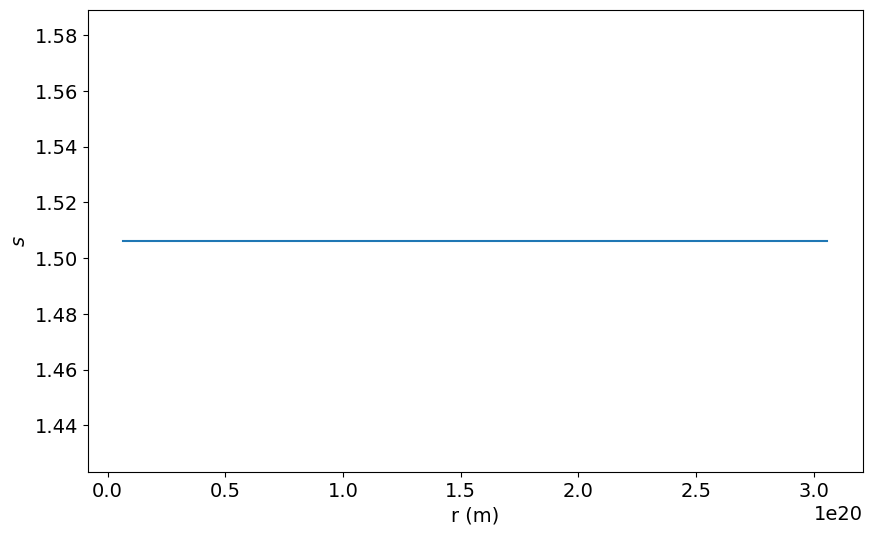
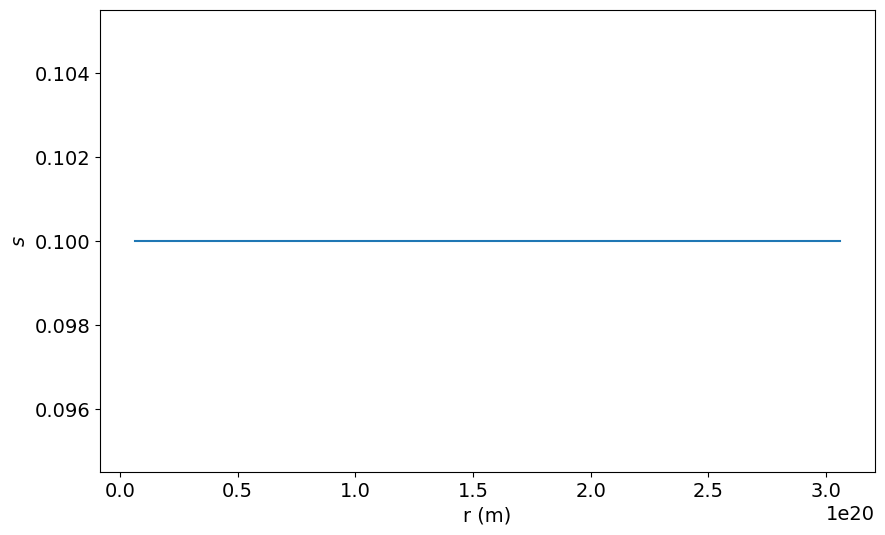
adding mass opt

diff --git a/grid_search_util.py b/grid_search_util.py
@@ -14,7 +14,7 @@ plt.rcParams.update({'font.size': 10})
 
 def plot_grid_results(res_grid, x0_vals, x1_vals, x2_vals, best_loc):
 
-    res_grid[np.where(np.isnan(res_grid))] = np.max(res_grid)
+    #res_grid[np.where(np.isnan(res_grid))] = np.max(res_grid)
     X0, X1, X2 = np.meshgrid(x0_vals, x1_vals, x2_vals)
     fig = plt.figure(figsize=(8, 6))
     plt.rcParams.update({'font.size': 10})
@@ -23,14 +23,14 @@ def plot_grid_results(res_grid, x0_vals, x1_vals, x2_vals, best_loc):
 
     colmap = cm.ScalarMappable(cmap=cm.hsv)
     colmap.set_array(res_grid)
-    img = ax.scatter(X0, X1, X2, c = np.minimum(res_grid/np.min(res_grid), 1.2*np.ones(res_grid.shape)), cmap = plt.cool(), alpha = 0.6)
+    img = ax.scatter(X0, X1, X2, c = np.minimum(res_grid/np.nanmin(res_grid), 1.2*np.ones(res_grid.shape)), cmap = plt.cool(), alpha = 0.3)
     cax = ax.inset_axes([1.15, 0.2, 0.05, 0.6])
     cb = fig.colorbar(img, shrink=0.5, aspect=8, cax = cax)
 
     ax.set_xlabel('x0')
     ax.set_ylabel('x1')
     ax.set_zlabel('x2')
-    ax.view_init(azim=-30, elev=20)
+    ax.view_init(azim=-30, elev=-20)
     fig.savefig("plots/residual_grid")
 
     #import pdb; pdb.set_trace()
@@ -56,7 +56,7 @@ def plot_grid_results(res_grid, x0_vals, x1_vals, x2_vals, best_loc):
     return
 
 def grid_search(grid_ranges, galaxy_dict):
-    num_samples = 17
+    num_samples = 25
     x0_vals = np.linspace(grid_ranges["x0"][0], grid_ranges["x0"][1], num_samples, endpoint = True)
     x1_vals = np.linspace(grid_ranges["x1"][0], grid_ranges["x1"][1], num_samples, endpoint = True)
     x2_vals = np.linspace(grid_ranges["x2"][0], grid_ranges["x2"][1], num_samples, endpoint = True)
@@ -71,24 +71,91 @@ def grid_search(grid_ranges, galaxy_dict):
         for j, x1 in enumerate(list(x1_vals)):
             for k, x2 in enumerate(list(x2_vals)):
                 x = tf.convert_to_tensor(np.asarray([x0, x1, x2]), dtype = "float64")
-                residual_norm, jacobian, hessian, phi, s, v_calc = get_grad_concrete(r, v, n, x)
-                res_grid[i, j, k] = residual_norm.numpy()
 
+                s_asym = x1#10**20 * x[1]/np.max(r)
+                s_init = x0/x2
+
+                if s_asym > 1.5 or s_init > 1.5:
+                    #print(f"Invalid x {x}, skipping.")
+                    continue
+                if s_asym < s_init:
+                    #print(f"Invalid x {x}, skipping.")
+                    continue
+
+
+
+                residual_norm, jacobian, hessian, phi, s, v_calc = get_grad_concrete(r, v, n, x)
+                if np.any(np.isnan(v_calc)):
+                    #print(f"Unphysical phi: {phi} from x: {x}, skipping.")
+                    #plot_phi(r, phi, "grid_search")
+                    #import pdb; pdb.set_trace()
+                    continue
+                print(f"Valid x! {x}")
+                res_grid[i, j, k] = residual_norm.numpy()
+                print
     res_grid[np.isnan(res_grid)] = np.Inf
     best_loc = np.unravel_index(np.argmin(res_grid.flatten()), res_grid.shape)
     best_x = tf.convert_to_tensor(np.asarray([x0_vals[best_loc[0]], x1_vals[best_loc[1]], x2_vals[best_loc[2]]]), dtype = "float64")
 
     tf.print("Best x from grid search: ", best_x)
-    print(f"Lowest residual from grid search {np.min(res_grid)}")
+    print(f"Lowest residual from grid search {np.nanmin(res_grid)}")
     residual_norm, jacobian, hessian, phi, s, v_calc = get_grad_concrete(r, v, n, best_x)
 
+    res_grid[np.isinf(res_grid)] = np.nan
     plot_grid_results(res_grid, x0_vals, x1_vals, x2_vals, best_loc)
     plot_velocities(r, v, v_calc, "grid_search")
     plot_s(r, best_x, "grid_search")
+    plot_phi(r, phi, "grid_search")
 
-    import pdb; pdb.set_trace()
     return best_x
 
+def mass_search(mass_ranges, galaxy_dict):
+    num_samples = 25
+    mass_vals = np.linspace(grid_ranges["x0"][0], grid_ranges["x0"][1], num_samples, endpoint = True)
 
+    res_grid = np.empty((num_samples,))
+    res_grid.fill(np.nan)
+
+    r, v, n, x = load_galaxy_data(galaxy_dict)
+    get_grad_concrete = get_grad.get_concrete_function(r, v, n, x) # initialize tensorflow concrete function
+
+
+    for i, mass in enumerate(list(mass_vals)):
+
+                s_asym = x1#10**20 * x[1]/np.max(r)
+                s_init = x0/x2
+
+                if s_asym > 1.5 or s_init > 1.5:
+                    #print(f"Invalid x {x}, skipping.")
+                    continue
+                if s_asym < s_init:
+                    #print(f"Invalid x {x}, skipping.")
+                    continue
+
+
+
+                residual_norm, jacobian, hessian, phi, s, v_calc = get_grad_concrete(r, v, n, x)
+                if np.any(np.isnan(v_calc)):
+                    #print(f"Unphysical phi: {phi} from x: {x}, skipping.")
+                    #plot_phi(r, phi, "grid_search")
+                    #import pdb; pdb.set_trace()
+                    continue
+                print(f"Valid x! {x}")
+                res_grid[i] = residual_norm.numpy()
+                print
+
+    best_mass = mass_vals
+
+    tf.print("Best x from grid search: ", best_x)
+    print(f"Lowest residual from grid search {np.nanmin(res_grid)}")
+    residual_norm, jacobian, hessian, phi, s, v_calc = get_grad_concrete(r, v, n, best_x)
+
+    res_grid[np.isinf(res_grid)] = np.nan
+    plot_grid_results(res_grid, x0_vals, x1_vals, x2_vals, best_loc)
+    plot_velocities(r, v, v_calc, "grid_search")
+    plot_s(r, best_x, "grid_search")
+    plot_phi(r, phi, "grid_search")
+
+    return best_x
 
 # plot grid_results

diff --git a/util.py b/util.py
@@ -54,10 +54,12 @@ def get_grad(r, v, n, x):
                 tf.multiply(tf.convert_to_tensor(2, dtype = "float64"), s)))
                 num = tf.multiply(gamma_num, length_scale)
 
-                K_fac = tf.constant(-6.67*10**(-11) * 10**(39), dtype = tf.float64)
+                # mass 10^39
+                K_fac = tf.constant(6.67*10**(-11) * 10**(40), dtype = tf.float64)
                 phi = tf.multiply(K_fac, tf.divide(num, den)) # get K - gravitational potential
 
             dphidr = tape_r.gradient(phi, r)
+            #v_calc = tf.sqrt(tf.multiply(tf.multiply(tf.convert_to_tensor(-1, dtype = "float64"), dphidr), r))
             v_calc = tf.sqrt(tf.multiply(dphidr, r))
             if False:
                 tf.print("num", num)
@@ -119,7 +121,13 @@ def plot_s(r, x, plot_name):
     #import pdb; pdb.set_trace()
     s = (x[0] + x[1]*r)/(x[2] + r)
     #print(f"s: {s}")
+
     plt.clf(); plt.plot(r, s)
     plt.xlabel("r (m)"); plt.ylabel("$s$")
     plt.savefig(f"plots/s_vs_r_{plot_name}.png", bbox_inches = "tight")
     return
+
+def plot_phi(r, phi, plot_name):
+    plt.clf(); plt.plot(r, phi.numpy())
+    plt.xlabel("r (m)"); plt.ylabel("$\Phi$ ($m^2 s^{-2}$)")
+    plt.savefig(f"plots/phi_{plot_name}.png", bbox_inches = "tight")

diff --git a/newton_util.py b/newton_util.py
@@ -51,25 +51,25 @@ def get_K(r, s, n):
 def plot_newton_results(r, phi, s, v, v_calc, it_list, res_list):
     plt.clf(); plt.plot(r, phi.numpy())
     plt.xlabel("r (m)"); plt.ylabel("$\Phi$ ($m^2 s^{-2}$)")
-    plt.savefig("phi_vs_r.png", bbox_inches = "tight")
+    plt.savefig("plots/phi_vs_r_newton.png", bbox_inches = "tight")
 
     plt.clf(); plt.plot(r, s.numpy())
     plt.xlabel("r (m)"); plt.ylabel("$s$")
-    plt.savefig("s_vs_r.png", bbox_inches = "tight")
+    plt.savefig("plots/s_vs_r_newton.png", bbox_inches = "tight")
 
     plt.clf()
     plt.plot(r, v, label = "data")
     plt.plot(r, v_calc, label = "predicted")
     plt.xlabel("r (m)"); plt.legend()
     plt.ylabel("orbital velocity ($m s^{-1}$)")
-    plt.savefig("r_vorb.png", bbox_inches = "tight")
+    plt.savefig("plots/r_vorb_newton.png", bbox_inches = "tight")
 
     plt.clf()
     plt.plot(it_list, res_list)
     plt.xlabel("iteration")
     plt.ylabel("residual_norm ($m s^{-1}$)")
     plt.yscale("log")
-    plt.savefig("residual.png", bbox_inches = "tight")
+    plt.savefig("plots/residual_newton.png", bbox_inches = "tight")
     return
 
 def run_newton_solve(initial_guess, galaxy_dict):

diff --git a/solve_for_s.py b/solve_for_s.py
@@ -27,9 +27,9 @@ def get_s(galaxy_dict):
 
     #plot_v2r(r = galaxy_dict["r"], v_data = galaxy_dict["v"], plot_name ="1")
 
-    grid_ranges = {"x0": [2.5, 2.7],
-                    "x1": [1.5, 1.55],
-                    "x2": [1.7, 1.79]}
+    grid_ranges = {"x0": [0.2, 1],
+                    "x1": [0.1, 1.5],
+                    "x2": [0.2, 1]}
     #
     # grid_ranges = {"x0": [0.5, 2],
     #                 "x1": [0.5, 2],
